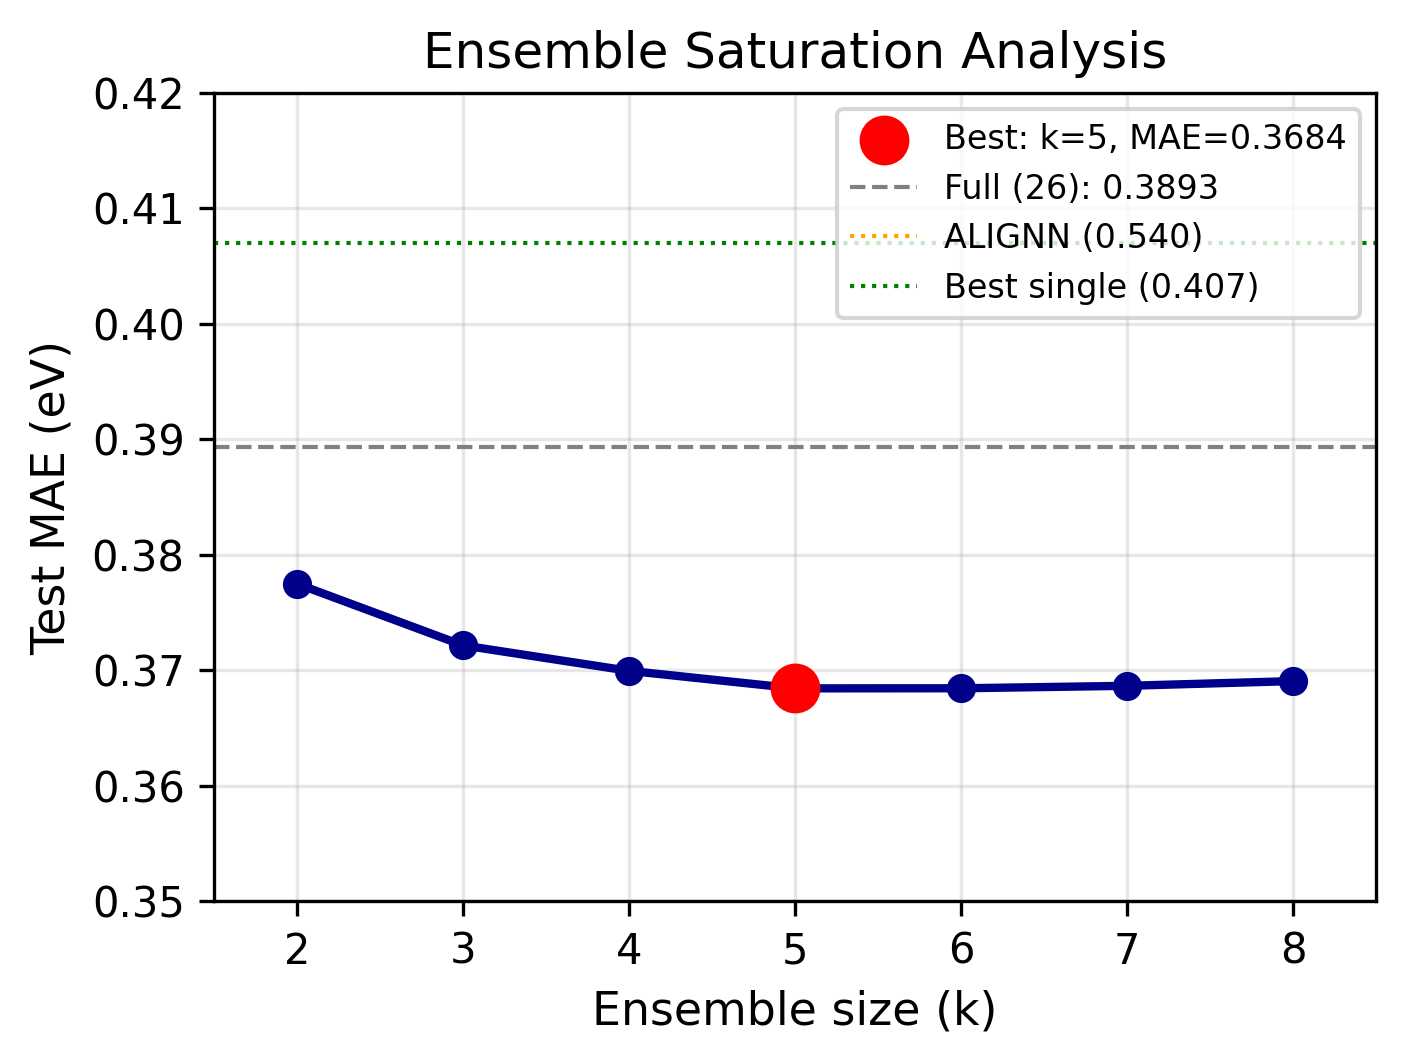
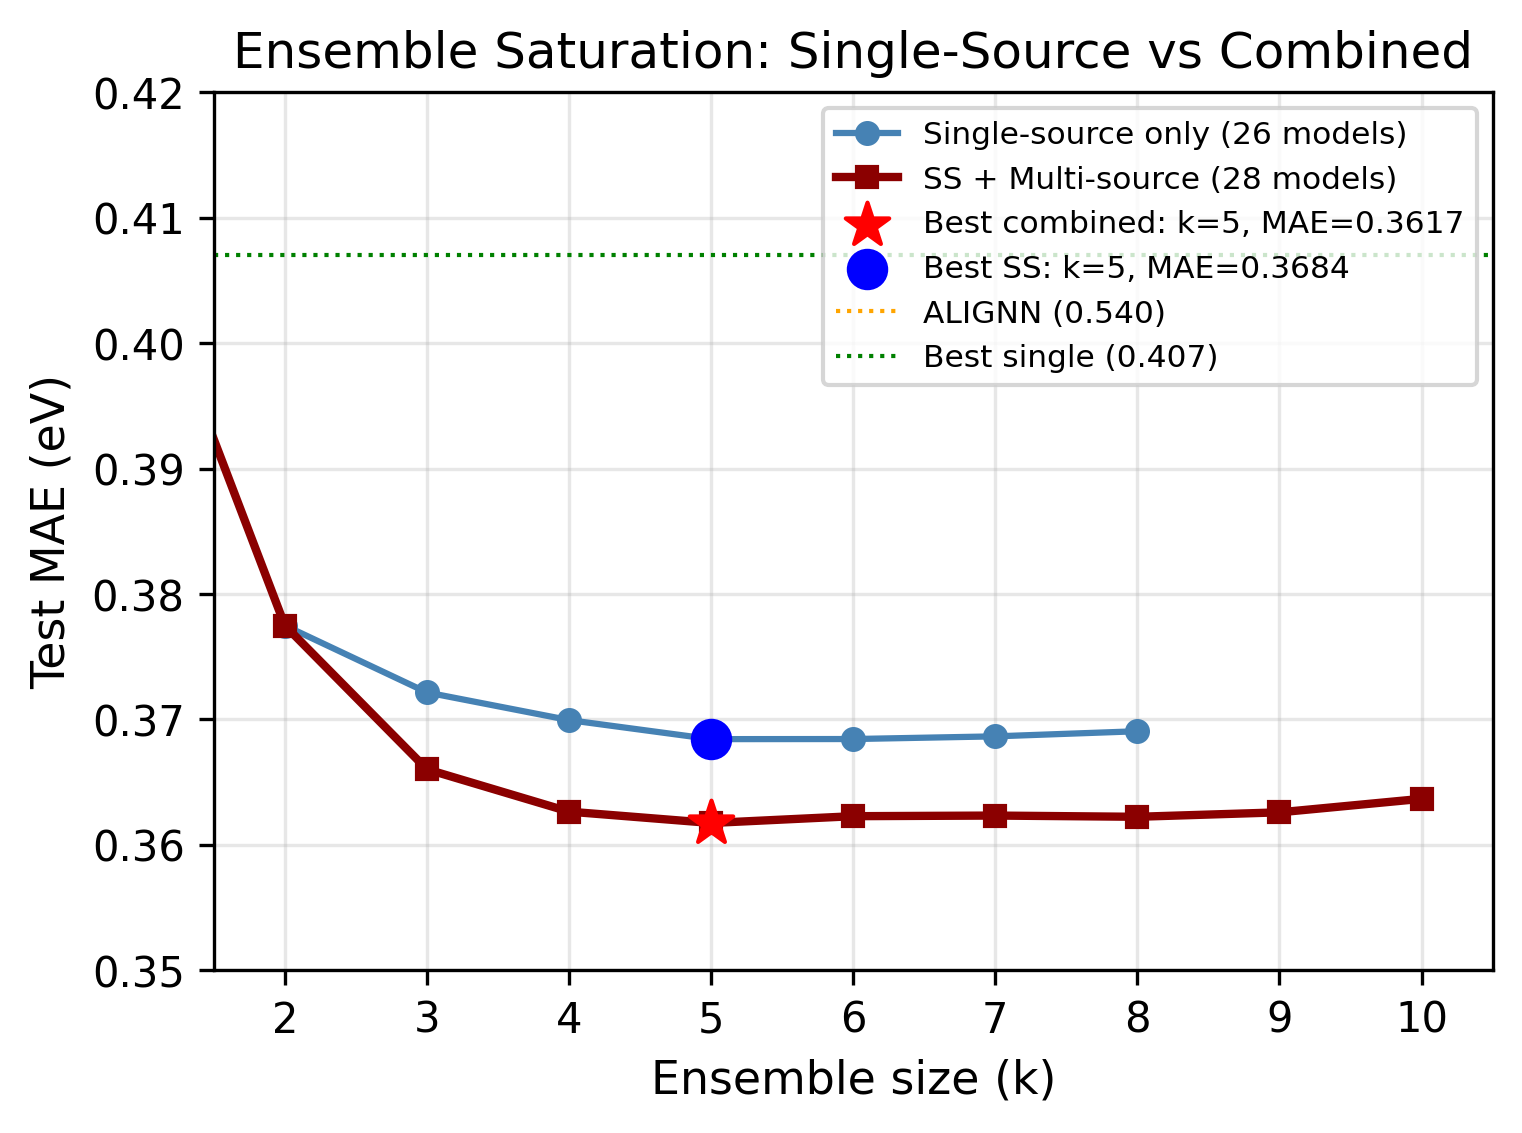
figs: update ensemble curve to show SS vs SS+MS combined comparison
The ensemble saturation plot now shows both single-source-only (26 models)
and combined (28 models including multi-source) greedy selection curves,
clearly showing where ms4_deep enters at k=3.

diff --git a/scripts/plot_v4_ablation.py b/scripts/plot_v4_ablation.py
@@ -72,31 +72,43 @@ def plot_progressive_improvement():
 
 
 def plot_ensemble_curve():
-    """Ensemble size vs MAE showing saturation."""
+    """Ensemble size vs MAE showing saturation — SS only vs SS+MS combined."""
     data = np.load(RESULTS / "ensemble_online.npz", allow_pickle=True)
     individual = data["individual_preds"]
     targets = data["targets"]
     names = list(data["model_names"])
 
-    # Load UQ results for best-k values
+    # Load UQ results for SS-only best-k values
     with open(RESULTS / "uq_v4_ensemble.json") as f:
         uq = json.load(f)
 
-    ks = [int(k) for k in uq["best_per_k"].keys()]
-    maes = [uq["best_per_k"][str(k)]["mae"] for k in ks]
+    ks_ss = [int(k) for k in uq["best_per_k"].keys()]
+    maes_ss = [uq["best_per_k"][str(k)]["mae"] for k in ks_ss]
 
-    fig, ax = plt.subplots(1, 1, figsize=(5, 3.5))
-    ax.plot(ks, maes, "o-", color="darkblue", markersize=6, linewidth=2)
+    # Load combined results (SS+MS)
+    with open(RESULTS / "ensemble_combined.json") as f:
+        combined = json.load(f)
 
-    # Mark sweet spot
-    best_idx = np.argmin(maes)
-    ax.scatter([ks[best_idx]], [maes[best_idx]], s=120, color="red", zorder=5,
-               label=f"Best: k={ks[best_idx]}, MAE={maes[best_idx]:.4f}")
+    ks_comb = [int(k) for k in combined["greedy_selection"].keys()]
+    maes_comb = [combined["greedy_selection"][str(k)]["mae"] for k in ks_comb]
 
-    # Full ensemble
-    full_mae = float(np.abs(individual.mean(axis=0) - targets).mean())
-    ax.axhline(full_mae, color="gray", linestyle="--", linewidth=1,
-               label=f"Full ({len(names)}): {full_mae:.4f}")
+    fig, ax = plt.subplots(1, 1, figsize=(5.5, 3.8))
+    ax.plot(ks_ss, maes_ss, "o-", color="steelblue", markersize=5, linewidth=1.5,
+            label="Single-source only (26 models)")
+    ax.plot(ks_comb, maes_comb, "s-", color="darkred", markersize=5, linewidth=2,
+            label="SS + Multi-source (28 models)")
+
+    # Mark best combined
+    best_comb_idx = np.argmin(maes_comb)
+    ax.scatter([ks_comb[best_comb_idx]], [maes_comb[best_comb_idx]], s=120,
+               color="red", zorder=5, marker="*",
+               label=f"Best combined: k={ks_comb[best_comb_idx]}, MAE={maes_comb[best_comb_idx]:.4f}")
+
+    # Mark best SS
+    best_ss_idx = np.argmin(maes_ss)
+    ax.scatter([ks_ss[best_ss_idx]], [maes_ss[best_ss_idx]], s=80,
+               color="blue", zorder=5,
+               label=f"Best SS: k={ks_ss[best_ss_idx]}, MAE={maes_ss[best_ss_idx]:.4f}")
 
     # Reference lines
     ax.axhline(0.540, color="orange", linestyle=":", linewidth=1, label="ALIGNN (0.540)")
@@ -104,10 +116,10 @@ def plot_ensemble_curve():
 
     ax.set_xlabel("Ensemble size (k)")
     ax.set_ylabel("Test MAE (eV)")
-    ax.set_title("Ensemble Saturation Analysis")
-    ax.legend(loc="upper right", fontsize=8)
+    ax.set_title("Ensemble Saturation: Single-Source vs Combined")
+    ax.legend(loc="upper right", fontsize=7.5)
     ax.grid(alpha=0.3)
-    ax.set_xlim(1.5, 8.5)
+    ax.set_xlim(1.5, 10.5)
     ax.set_ylim(0.35, 0.42)
 
     fig.savefig(FIG_DIR / "fig_v4_ensemble_curve.png")